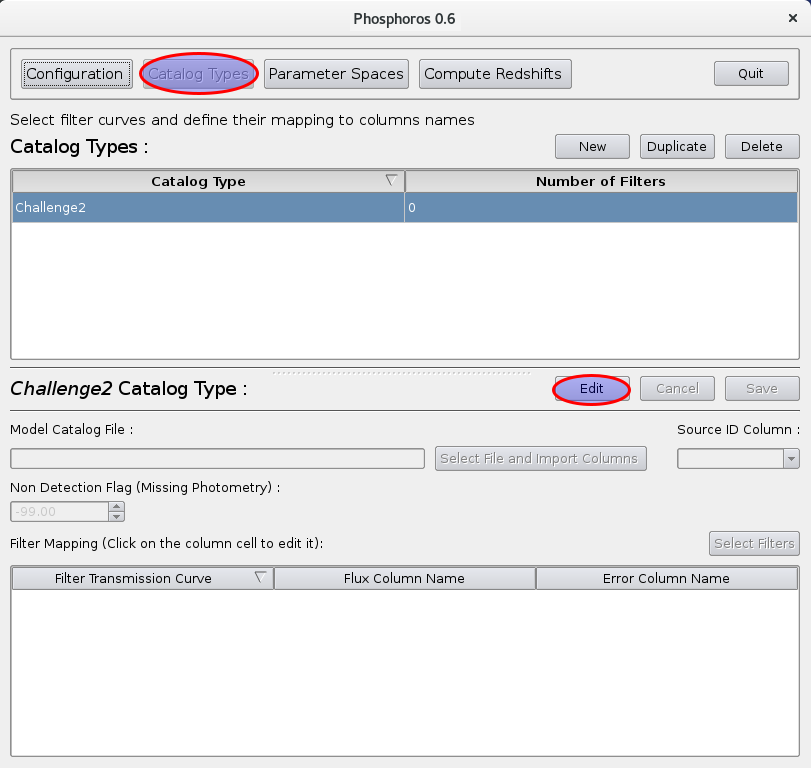
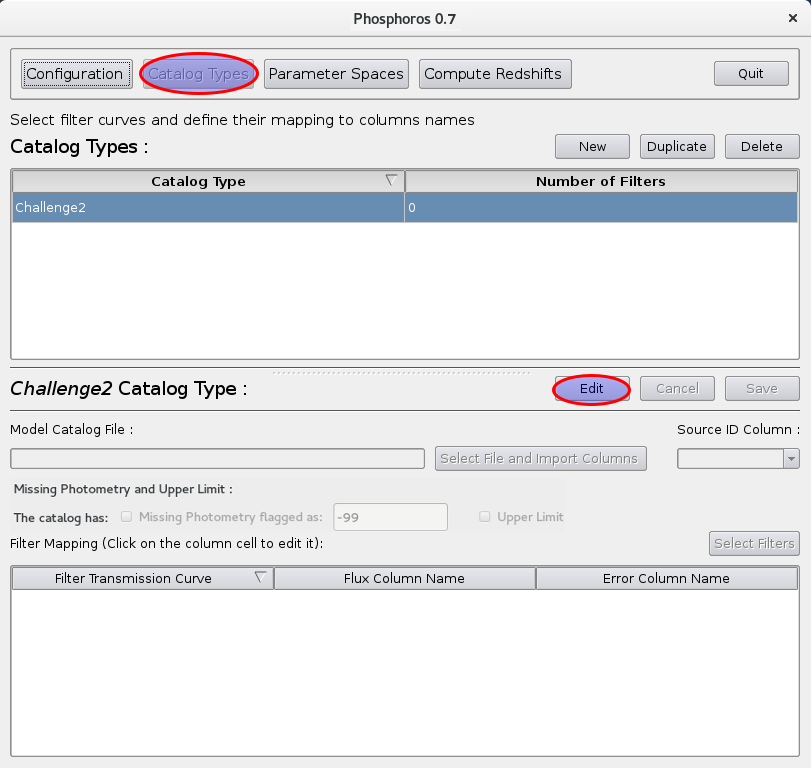
Update upper limit and missing photometry in the user manual

Changed region(s): [[0.0, 0.625, 0.431, 0.6875], [0.6158, 0.6562, 0.6773, 0.6875]]

diff --git a/source/user_manual/basic_steps/catalog_column_mapping.rst b/source/user_manual/basic_steps/catalog_column_mapping.rst
@@ -40,7 +40,13 @@ was just inserted.
 .. figure:: /_static/first_step/CatalogType_SelectCat.png
     :align: center
 
-The column name providing source ID can be entered through the ``Source ID Column``. Then, press ``Select Filters``.
+The column name providing source ID can be entered through the ``Source ID Column``. 
+
+If the catalog has some sources with missing photometry (sources which where not observed in all catalog's bands), you have to check the corresponding control and provide the value of the flag. By doing so you instruct the program to skeep photometry having the flag value in the flux column. 
+
+If the catalog contains some objects whith upper limit (sources which where observed but not detected in some band, for which the provided photometry is the upper limit of the flux and not the nominal flux), you have to check the corresponding control and ensure that the catalog follow the upper limit convention. The program will considere as an upper limit a photometry which corresponding error has a negative value.
+ 
+Then, press ``Select Filters``.
 
 .. figure:: /_static/first_step/CatalogType_SelectFilters.png
     :align: center
